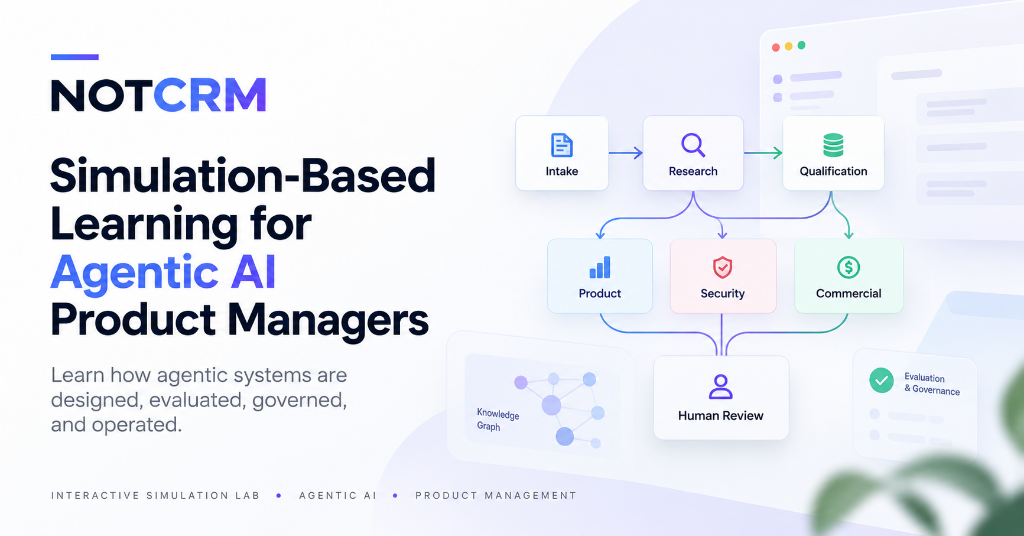
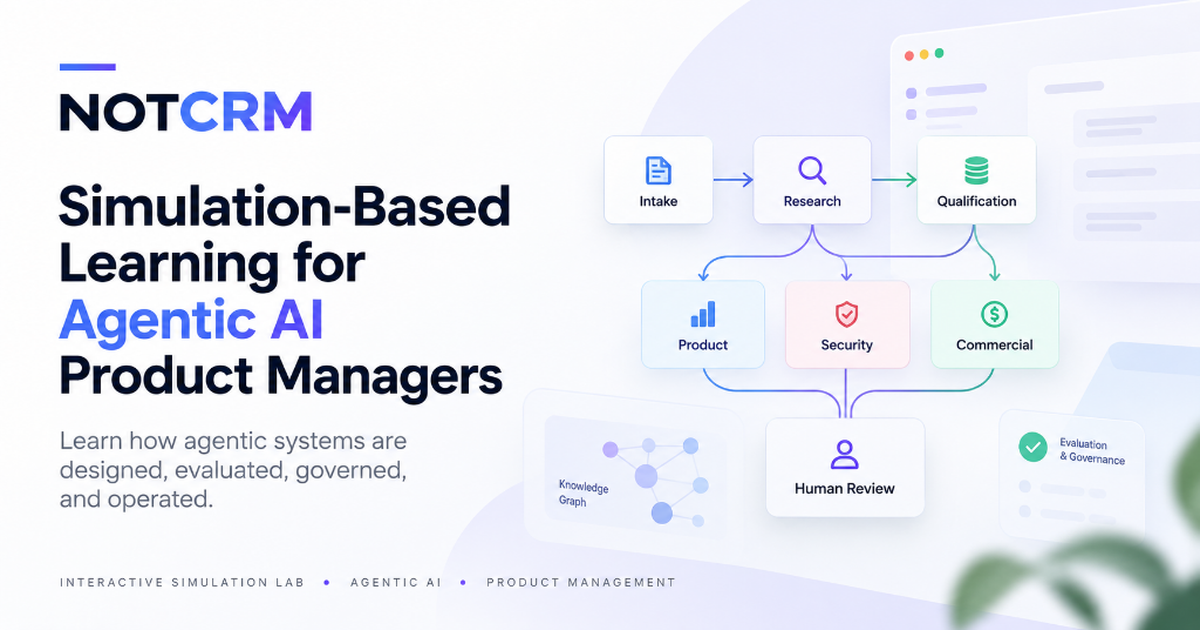
fix(social): Move Twitter Card and OG tags to top of head, optimize preview image to standard 1200x630 RGB, add twitter:domain and full metadata, and append cache-busting ref parameter for X sharing

diff --git a/static/index.html b/static/index.html
@@ -5,6 +5,36 @@
     <meta name="viewport" content="width=device-width, initial-scale=1.0">
     <title>NOTCRM: Free Agentic AI Course for Product Managers | Simulation Lab</title>
     <meta name="description" content="Free, interactive simulation-based Agentic AI course for Product Managers. Master multi-agent DAG orchestration, FastMCP tools, Evals, deterministic verifiers, and governance. Prepare for FAANG, Anthropic, OpenAI, and DeepSeek interviews.">
+
+    <!-- Essential Social Sharing & Open Graph Tags (Top of head for fast crawler detection) -->
+    <meta property="og:type" content="website">
+    <meta property="og:url" content="https://notcrm.onrender.com/">
+    <meta property="og:site_name" content="NOTCRM">
+    <meta property="og:title" content="NOTCRM: Simulation-Based Learning for Agentic AI Product Managers">
+    <meta property="og:description" content="Free interactive simulation lab where Product Managers learn how multi-agent AI systems are designed, evaluated, governed, and operated in production.">
+    <meta property="og:image" content="https://notcrm.onrender.com/og-preview.png">
+    <meta property="og:image:secure_url" content="https://notcrm.onrender.com/og-preview.png">
+    <meta property="og:image:type" content="image/png">
+    <meta property="og:image:width" content="1200">
+    <meta property="og:image:height" content="630">
+    <meta property="og:image:alt" content="NOTCRM: Simulation-Based Learning for Agentic AI Product Managers">
+
+    <!-- Twitter Card (summary_large_image) -->
+    <meta name="twitter:card" content="summary_large_image">
+    <meta name="twitter:domain" content="notcrm.onrender.com">
+    <meta name="twitter:url" content="https://notcrm.onrender.com/">
+    <meta name="twitter:title" content="NOTCRM: Simulation-Based Learning for Agentic AI Product Managers">
+    <meta name="twitter:description" content="Free interactive simulation lab where Product Managers learn how multi-agent AI systems are designed, evaluated, governed, and operated in production.">
+    <meta name="twitter:image" content="https://notcrm.onrender.com/og-preview.png">
+    <meta name="twitter:image:src" content="https://notcrm.onrender.com/og-preview.png">
+    <meta name="twitter:image:alt" content="NOTCRM: Simulation-Based Learning for Agentic AI Product Managers">
+    <meta property="twitter:card" content="summary_large_image">
+    <meta property="twitter:domain" content="notcrm.onrender.com">
+    <meta property="twitter:url" content="https://notcrm.onrender.com/">
+    <meta property="twitter:title" content="NOTCRM: Simulation-Based Learning for Agentic AI Product Managers">
+    <meta property="twitter:description" content="Free interactive simulation lab where Product Managers learn how multi-agent AI systems are designed, evaluated, governed, and operated in production.">
+    <meta property="twitter:image" content="https://notcrm.onrender.com/og-preview.png">
+
     <meta name="keywords" content="Agentic AI Course, Free Agentic AI course, Agentic AI for product managers, AI Product Manager Course, Multi-Agent Systems, Andrew Ng Agentic Workflows, Andrej Karpathy LLM OS, FastMCP, Model Context Protocol, A2A Protocol, LLM Evaluations, Golden Dataset, Trajectory Scorecard, Independent Verifier, AI Safety Guardrails, FAANG AI PM Interview, Anthropic Agent Patterns, OpenAI Swarm, DeepSeek">
     <meta name="author" content="NOTCRM Educational Simulation Lab">
     <link rel="canonical" href="https://notcrm.onrender.com/">
@@ -132,23 +162,6 @@
       ]
     }
     </script>
-
-    <!-- Open Graph / Facebook / LinkedIn -->
-    <meta property="og:type" content="website">
-    <meta property="og:url" content="https://notcrm.onrender.com/">
-    <meta property="og:title" content="NOTCRM: Simulation-Based Learning for Agentic AI Product Managers">
-    <meta property="og:description" content="Interactive simulation lab where non-technical professionals learn how multi-agent AI systems are designed, evaluated, governed, and operated in production.">
-    <meta property="og:image" content="https://notcrm.onrender.com/og-preview.png">
-    <meta property="og:image:width" content="1200">
-    <meta property="og:image:height" content="630">
-    <meta property="og:site_name" content="NOTCRM">
-
-    <!-- Twitter Card -->
-    <meta name="twitter:card" content="summary_large_image">
-    <meta name="twitter:url" content="https://notcrm.onrender.com/">
-    <meta name="twitter:title" content="NOTCRM: Simulation-Based Learning for Agentic AI Product Managers">
-    <meta name="twitter:description" content="Interactive simulation lab where non-technical professionals learn how multi-agent AI systems are designed, evaluated, governed, and operated in production.">
-    <meta name="twitter:image" content="https://notcrm.onrender.com/og-preview.png">
     <!-- Google tag (gtag.js) -->
     <script async src="https://www.googletagmanager.com/gtag/js?id=G-M7C90S8YYC"></script>
     <script>
@@ -3151,29 +3164,32 @@
             if (dd) dd.style.display = dd.style.display === 'none' ? 'block' : 'none';
         }
 
-        const SHARE_URL = 'https://notcrm.onrender.com/';
+        const BASE_SHARE_URL = 'https://notcrm.onrender.com/';
         const SHARE_TEXT = 'NOTCRM: Simulation-based learning for Agentic AI Product Managers. Interactive lab covering multi-agent orchestration, evals, governance, and observability.';
 
         function shareToLinkedIn() {
             trackEvent('share_website', { platform: 'linkedin' });
-            window.open(`https://www.linkedin.com/sharing/share-offsite/?url=${encodeURIComponent(SHARE_URL)}`, '_blank', 'width=600,height=500');
+            const url = 'https://notcrm.onrender.com/?ref=linkedin';
+            window.open(`https://www.linkedin.com/sharing/share-offsite/?url=${encodeURIComponent(url)}`, '_blank', 'width=600,height=500');
             document.getElementById('share-dropdown').style.display = 'none';
         }
 
         function shareToX() {
             trackEvent('share_website', { platform: 'x_twitter' });
-            window.open(`https://x.com/intent/tweet?text=${encodeURIComponent(SHARE_TEXT)}&url=${encodeURIComponent(SHARE_URL)}`, '_blank', 'width=600,height=400');
+            const url = 'https://notcrm.onrender.com/?ref=x';
+            window.open(`https://x.com/intent/tweet?text=${encodeURIComponent(SHARE_TEXT)}&url=${encodeURIComponent(url)}`, '_blank', 'width=600,height=400');
             document.getElementById('share-dropdown').style.display = 'none';
         }
 
         function shareToReddit() {
             trackEvent('share_website', { platform: 'reddit' });
-            window.open(`https://www.reddit.com/submit?url=${encodeURIComponent(SHARE_URL)}&title=${encodeURIComponent('NOTCRM: Simulation-Based Learning for Agentic AI Product Managers')}`, '_blank', 'width=600,height=500');
+            const url = 'https://notcrm.onrender.com/?ref=reddit';
+            window.open(`https://www.reddit.com/submit?url=${encodeURIComponent(url)}&title=${encodeURIComponent('NOTCRM: Simulation-Based Learning for Agentic AI Product Managers')}`, '_blank', 'width=600,height=500');
             document.getElementById('share-dropdown').style.display = 'none';
         }
 
         function copyShareLink() {
-            navigator.clipboard.writeText(SHARE_URL).then(() => {
+            navigator.clipboard.writeText(BASE_SHARE_URL).then(() => {
                 trackEvent('share_website', { platform: 'copy_link' });
                 const item = document.getElementById('copy-link-item');
                 const orig = item.innerHTML;
